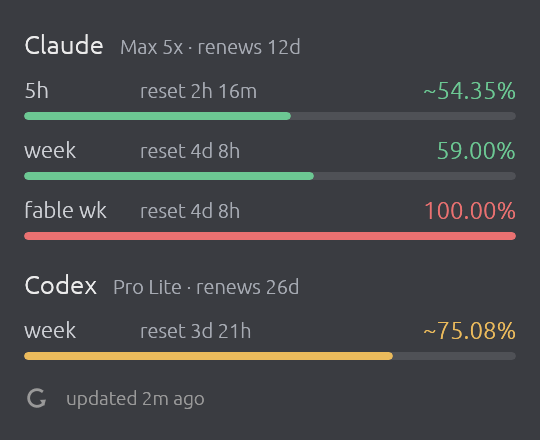
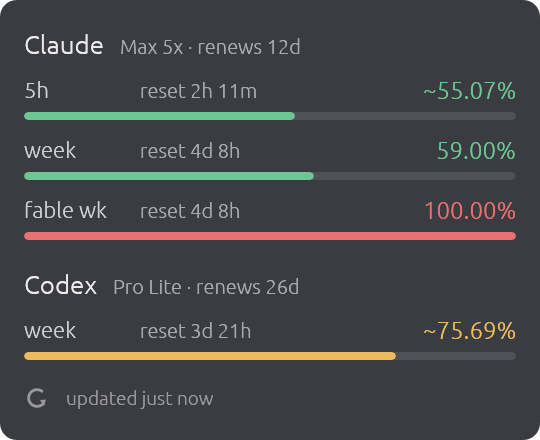
Round macOS widget corners and refine README setup

diff --git a/src/main.rs b/src/main.rs
@@ -27,8 +27,8 @@ const MARGIN: i8 = 12;
 /// Width of the meter-label column, so every reset countdown starts at the same x.
 const LABEL_COL: f32 = 50.0;
 
-// The window is painted entirely in BG; Windows rounds the corners at the
-// compositor level (see `apply_window_style`), so nothing else shows.
+// Windows rounds the opaque window at the compositor level; macOS uses a
+// rounded panel over a transparent window.
 const BG: Color32 = Color32::from_rgb(24, 26, 32);
 const TEXT: Color32 = Color32::from_gray(232);
 /// Meter labels ("5h", "week").
@@ -446,7 +446,11 @@ fn refresh_button(ui: &mut egui::Ui) -> bool {
 
 impl eframe::App for App {
     fn clear_color(&self, _visuals: &egui::Visuals) -> [f32; 4] {
-        BG.to_normalized_gamma_f32()
+        if cfg!(target_os = "macos") {
+            Color32::TRANSPARENT.to_normalized_gamma_f32()
+        } else {
+            BG.to_normalized_gamma_f32()
+        }
     }
 
     fn ui(&mut self, root: &mut egui::Ui, frame: &mut eframe::Frame) {
@@ -459,6 +463,7 @@ impl eframe::App for App {
 
         let panel = egui::Frame::NONE
             .fill(BG)
+            .corner_radius(if cfg!(target_os = "macos") { 8 } else { 0 })
             .inner_margin(Margin::same(MARGIN));
 
         let mut refresh = false;
@@ -601,6 +606,7 @@ usage: usage-widget [config | --startup | --no-startup]"
             .with_inner_size([WIDTH, 180.0])
             .with_min_inner_size([WIDTH, 60.0])
             .with_decorations(false)
+            .with_transparent(cfg!(target_os = "macos"))
             .with_always_on_top()
             .with_taskbar(false)
             .with_resizable(false),

diff --git a/README.md b/README.md
@@ -2,35 +2,21 @@
 
 Always-on-top widget for GitHub Copilot, Claude and Codex usage, plans and renewals.
 
-<img width="270" height="220" alt="Usage widget showing Claude and Codex plans, renewal dates, usage bars and reset countdowns" src="docs/usage-widget.png" />
+| Windows · dollar usage | macOS · usage windows |
+| --- | --- |
+| <img width="323" height="237" alt="Windows widget showing Copilot, Claude and Codex dollar usage and a combined total" src="docs/usage-widget-windows.png" /> | <img width="270" height="220" alt="macOS widget showing Claude and Codex plans, renewal dates, usage bars and reset countdowns" src="docs/usage-widget.png" /> |
 
 ## Install
 
 Needs Rust. Built for Windows; runs on macOS without `--startup`.
 
-```
+```bash
 cargo install --git https://github.com/pepsi-enjoyer/usage-widget
 usage-widget --startup   # start at login; --no-startup undoes
 usage-widget
 ```
 
 Re-run `cargo install` and restart the widget to upgrade.
-
-## Claude Code setup
-
-**Live Claude 5-hour and weekly usage requires a Claude Code status line that saves
-its input for the widget.** Add this at the start of your status line script:
-
-```bash
-INPUT=$(cat)
-case "$INPUT" in *'"five_hour"'*) printf '%s' "$INPUT" > ~/.claude/usage-widget-statusline.json;; esac
-```
-
-Use `$INPUT` for the rest of the script; stdin has already been read. The file updates
-while you use Claude Code, with no extra API requests.
-
-Without this setup, the widget falls back to cached usage and API requests at most
-every 15 minutes; rate limits can leave the numbers stale.
 
 ## Use
 
@@ -74,6 +60,20 @@ Reuses the CLIs' stored credentials; never writes them.
 | Codex | `~/.codex/auth.json` |
 
 Run `claude` or `codex` to refresh expired tokens. API endpoints are undocumented.
+
+### Claude Code status line
+
+For live Claude 5-hour and weekly usage, the widget needs your Claude Code status
+line to save its input. Add these lines to the start of your status line script,
+then use `$INPUT` wherever the script previously read stdin:
+
+```bash
+INPUT=$(cat)
+case "$INPUT" in *'"five_hour"'*) printf '%s' "$INPUT" > ~/.claude/usage-widget-statusline.json;; esac
+```
+
+This updates usage as you use Claude Code, without extra requests. Without it,
+the widget uses cached data and polls at most every 15 minutes, subject to rate limits.
 
 Estimates only cover local logs; Claude needs a few percentage ticks to calibrate.
 Optional Claude renewal cookies come from Chrome, Arc, Brave or Edge on macOS,
